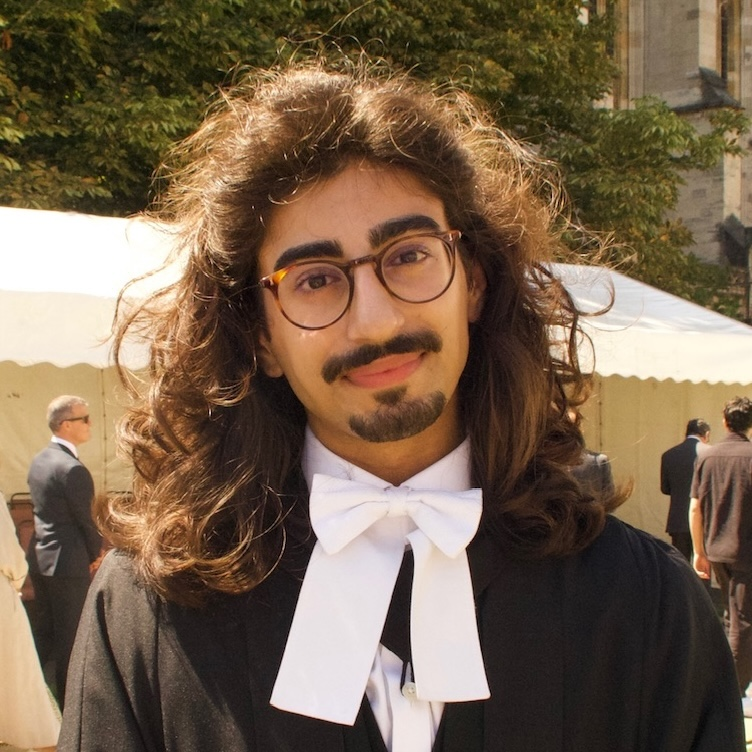
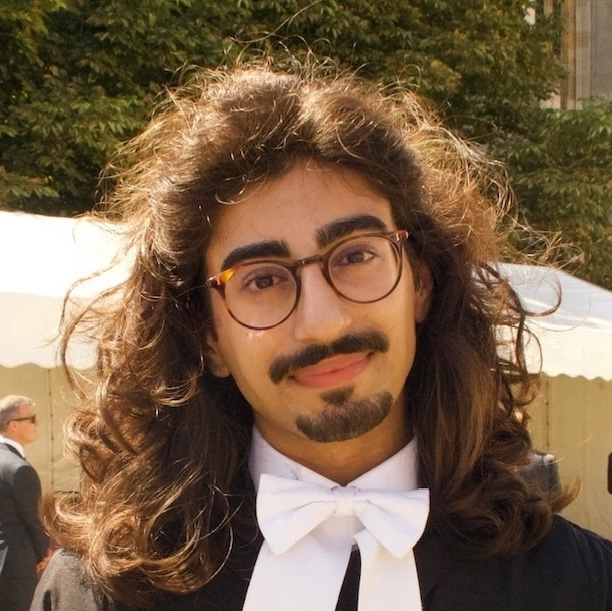
max

diff --git a/people.html b/people.html
@@ -77,14 +77,14 @@
 
     <tr class="person">
       <td class="person-photo">
-        <img src="assets/images/people/wenjia.jpg" alt="Person Photo" />
+        <img src="assets/images/people/max.jpg" alt="Person Photo" />
       </td>
       <td class="person-info">
-        <p class="person-name">Wenjia Tan</p>
-        <p class="person-title">PhD Student</p>
+        <p class="person-name">Max Taylor-Davies</p>
+        <p class="person-title">PDRA</p>
         <p class="person-bio">
-          I study reasoning and interaction in human and artificial intelligence. I also explore how LLM-based agents can put these abilities to work in healthcare and education, because even the smallest token can change the course of the future.
-        </p>
+          (<a href="https://maxtaylordavi.es">Webpage</a>)
+I am interested in the computational basis of social cognition: how do people represent, learn from, and work with one another? And how do we do so flexibly despite limited mental resources? These days, my focus is mainly on using theoretical and agent-based models to test ideas about cultural evolution, cooperation, and their interaction.        </p>
         <!-- <p class="person-links"><a href="">Website</a></p> -->
       </td>
     </tr>
@@ -98,6 +98,20 @@
         <p class="person-title">PhD Student</p>
         <p class="person-bio">
 What is the relationship between agenthood and selfhood? I am interested in studying this question using the formalism of reinforcement learning: To understand why and when it is useful for artificial, reward-maximising agents to reason about and refer to their self, and how they might do so in practice. This research draws on existing directions in computational neuroscience and philosophy, that similarly examine the structure and salience of the self in natural intelligence.
+        </p>
+        <!-- <p class="person-links"><a href="">Website</a></p> -->
+      </td>
+    </tr>
+
+    <tr class="person">
+      <td class="person-photo">
+        <img src="assets/images/people/wenjia.jpg" alt="Person Photo" />
+      </td>
+      <td class="person-info">
+        <p class="person-name">Wenjia Tan</p>
+        <p class="person-title">PhD Student</p>
+        <p class="person-bio">
+          I study reasoning and interaction in human and artificial intelligence. I also explore how LLM-based agents can put these abilities to work in healthcare and education, because even the smallest token can change the course of the future.
         </p>
         <!-- <p class="person-links"><a href="">Website</a></p> -->
       </td>
